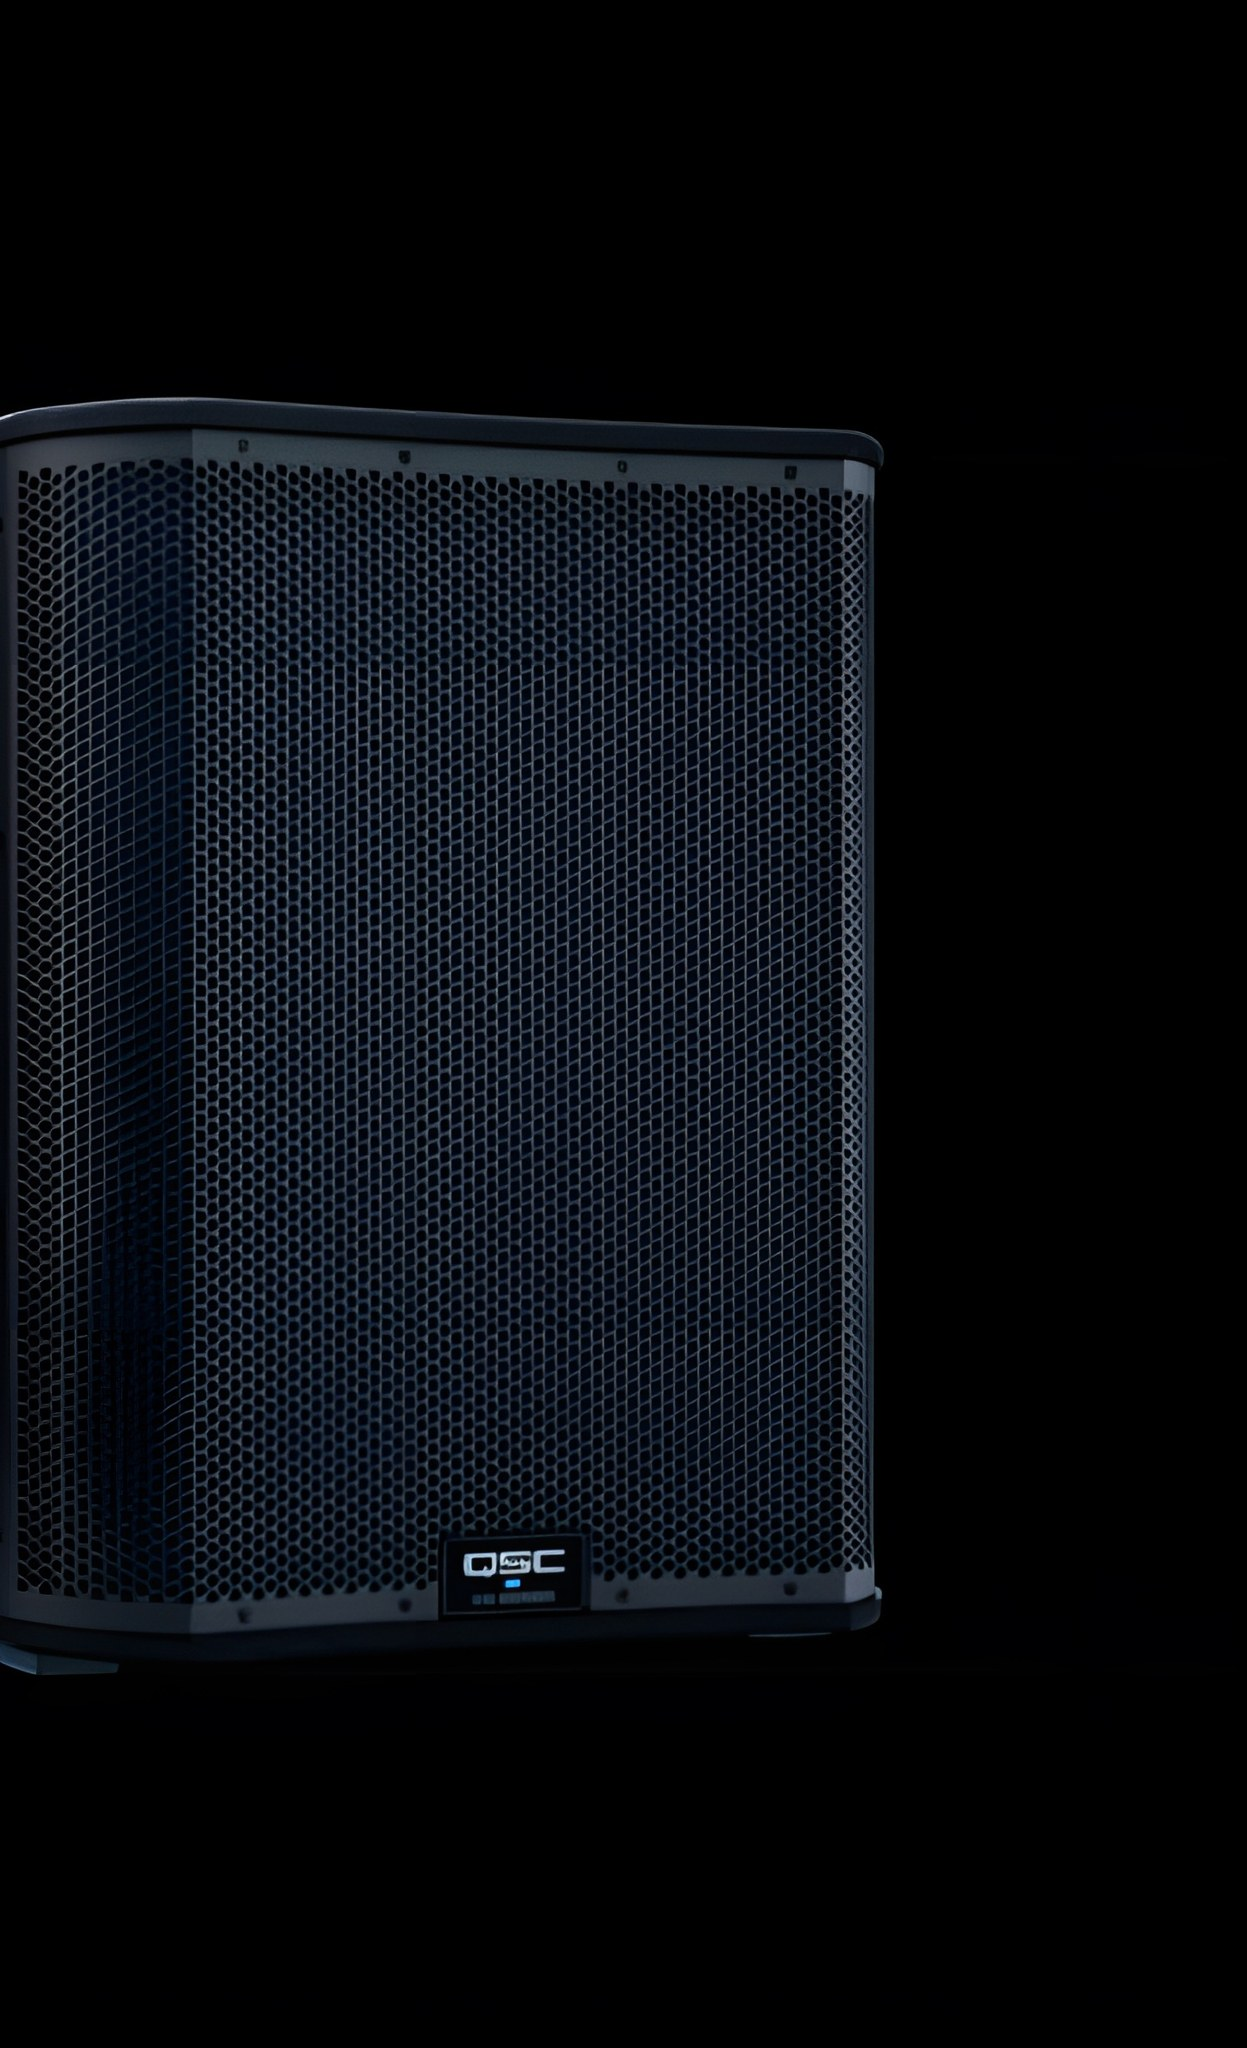
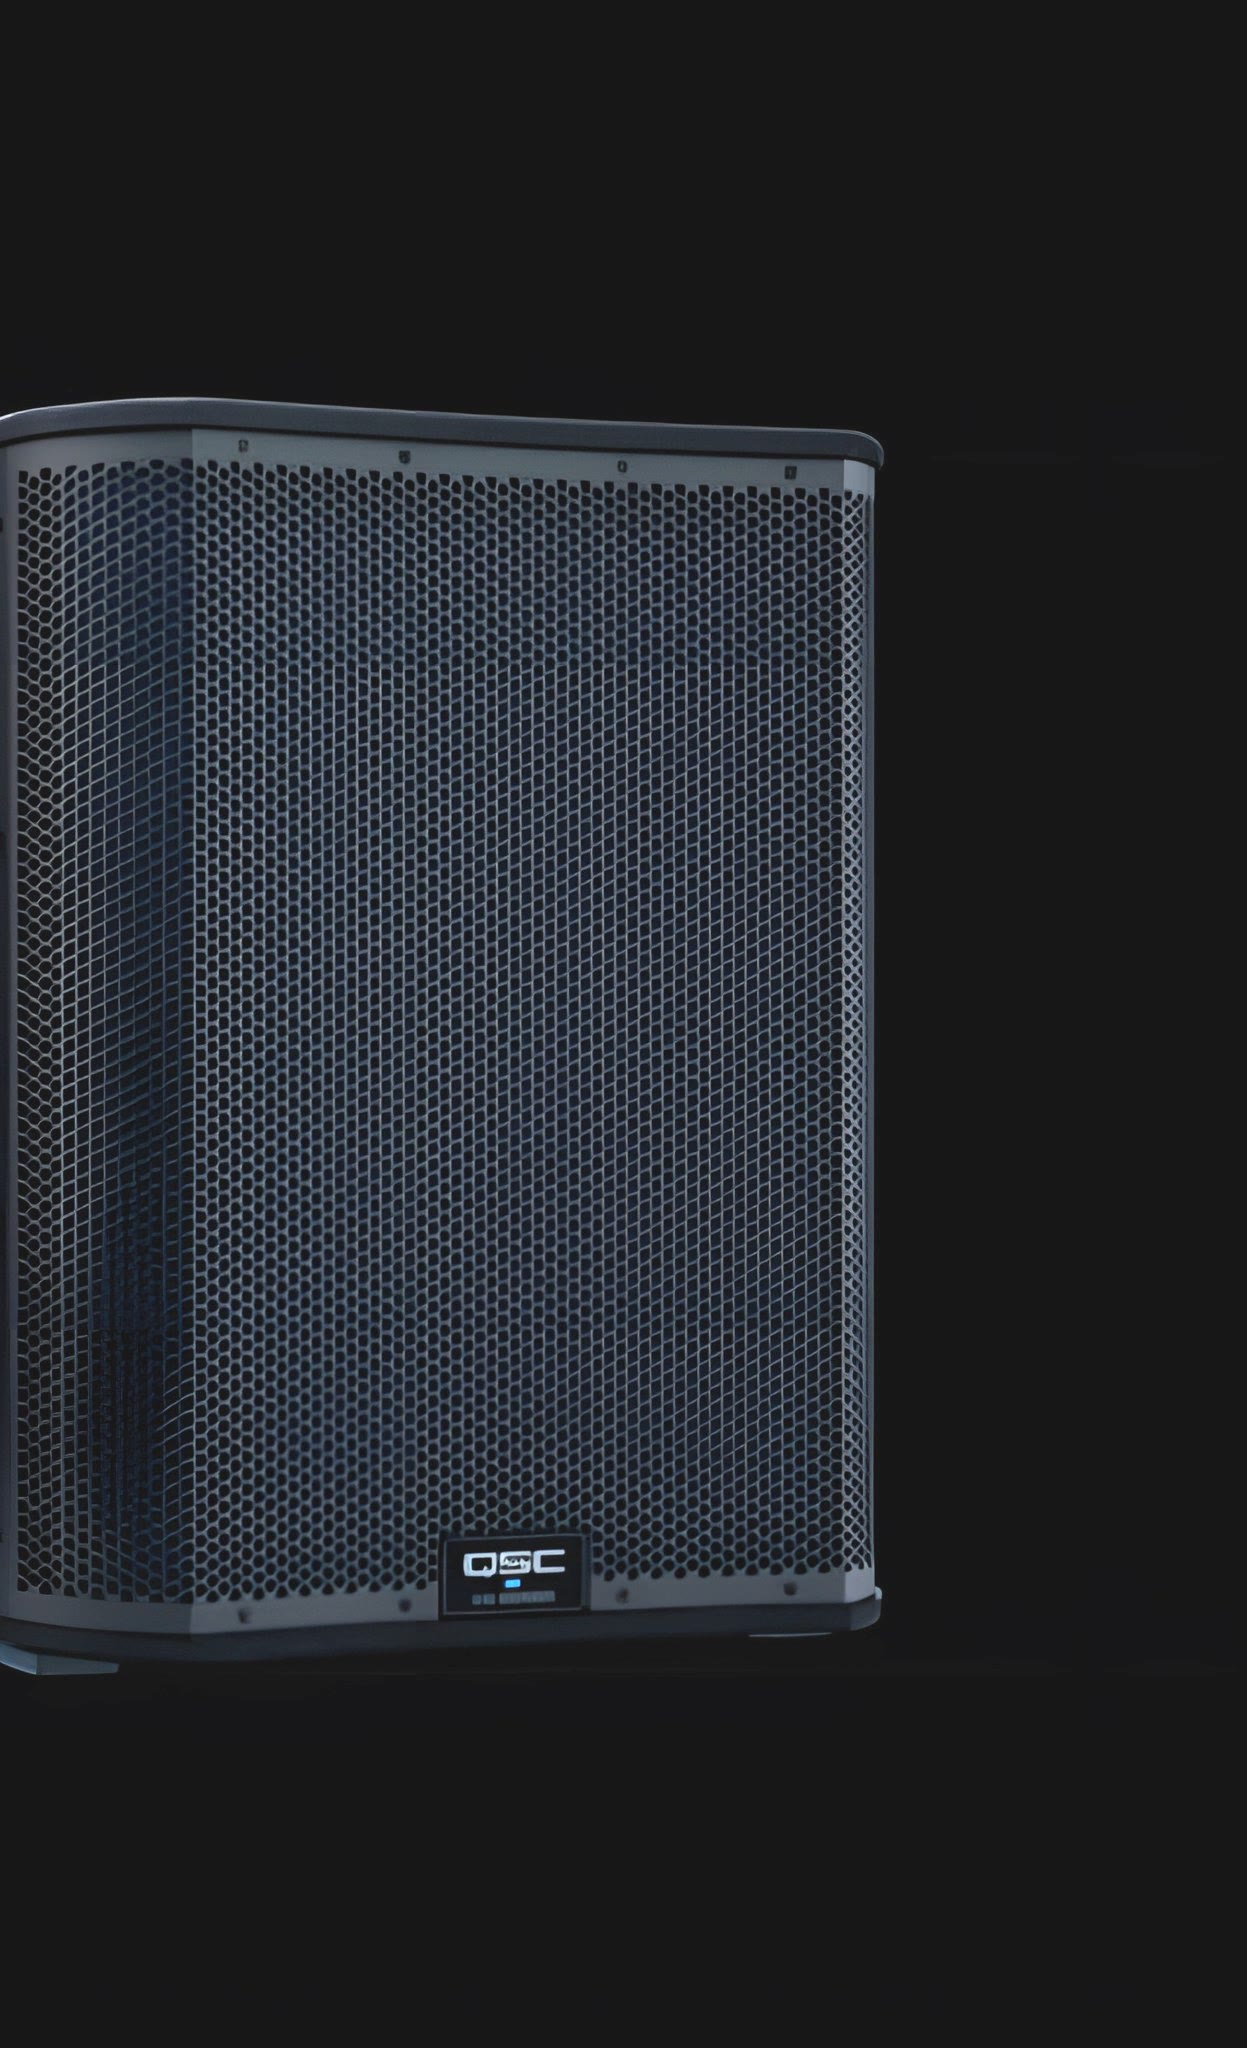
Gallery photos show full item (contain, not crop) everywhere; sub identified as QSC KS118 18in 3600W; sub crops brightened

diff --git a/styles.css b/styles.css
@@ -545,8 +545,8 @@ section{position:relative}
   transition:transform .3s var(--ease),border-color .3s}
 .gear:hover{transform:translateY(-4px);border-color:rgba(63,212,255,.5)}
 /* real photo on top of each card; honest Coming Soon tile until one exists */
-.g-media{position:relative;aspect-ratio:3/2;border-radius:12px;overflow:hidden;margin-bottom:16px;border:1px solid var(--line)}
-.g-media img{width:100%;height:100%;object-fit:cover;display:block}
+.g-media{position:relative;aspect-ratio:3/2;border-radius:12px;overflow:hidden;margin-bottom:16px;border:1px solid var(--line);background:#101016}
+.g-media img{width:100%;height:100%;object-fit:contain;display:block}
 .g-soon{display:flex;flex-direction:column;align-items:center;justify-content:center;gap:10px;color:var(--muted-2);
   background:repeating-linear-gradient(45deg,rgba(255,255,255,.025) 0 12px,transparent 12px 24px),
              linear-gradient(160deg,var(--surface-2),var(--surface))}
@@ -582,10 +582,10 @@ section{position:relative}
 .gm-close{position:sticky;top:12px;margin-left:calc(100% - 48px);z-index:5;width:36px;height:36px;border-radius:10px;
   border:1px solid var(--line);background:rgba(10,8,14,.85);color:var(--cream);cursor:pointer;font-size:.9rem}
 .gm-body{padding:0 26px 28px}
-.gm-photo{margin:-36px -26px 18px}
-.gm-photo img{width:100%;aspect-ratio:3/2;object-fit:cover;display:block;border-radius:20px 20px 0 0}
+.gm-photo{margin:-36px -26px 18px;background:#101016;border-radius:20px 20px 0 0}
+.gm-photo img{width:100%;aspect-ratio:3/2;object-fit:contain;display:block;border-radius:20px 20px 0 0}
 .gm-thumbs{display:flex;gap:8px;margin:-8px 0 16px;overflow-x:auto;padding-bottom:4px}
-.gm-thumbs img{width:64px;height:48px;object-fit:cover;border-radius:8px;cursor:pointer;border:2px solid transparent;opacity:.65;transition:.2s;flex:none}
+.gm-thumbs img{width:64px;height:48px;object-fit:contain;background:#101016;border-radius:8px;cursor:pointer;border:2px solid transparent;opacity:.65;transition:.2s;flex:none}
 .gm-thumbs img.on,.gm-thumbs img:hover{opacity:1;border-color:var(--gt-cyan)}
 .gm-from{margin:-4px 0 12px;font-size:.78rem;color:var(--muted);font-weight:600}
 .gm-head{display:flex;align-items:center;gap:12px;flex-wrap:wrap;margin-bottom:12px}

diff --git a/app.js b/app.js
@@ -510,13 +510,13 @@ const GEAR=[
    use:["Set it on a pole or tripod, or use the tilt-back angle as a floor monitor.","Run XLR from your mixer or DJ gear into the input.","Pick a DSP preset for the job: dance music, mic, monitor.","Set gain so the limit light only flicks on the loudest peaks. Pair with our KS subs for full-range dance floors."],
    specs:[["Amplifier","Class-D, up to 2,000W peak (K.2 line)"],["Design","Two-way: woofer + 1.4\" compression driver"],["DSP","Factory presets + savable scenes"],["Rigging","Pole mount + tilt-back angles"],["I/O","XLR combo in, XLR thru"]],
    rev:{stars:"4.5/5",count:"163 reviews",src:"Sweetwater (K12.2, flagship of the line)",line:"Reviewers report clear, powerful sound and years of reliability across bars, halls, and outdoor events."} },
- { id:"ksub", name:"QSC Subwoofer", model:"QSC KS-Series powered sub", qty:4, img:"media/gallery/gear/ksub-c2.jpg?v=2", imgs:["media/gallery/gear/ksub-c2.jpg?v=2","media/gallery/gear/ksub-c1.jpg?v=2","media/gallery/gear/ksub-c3.jpg?v=2"],
+ { id:"ksub", name:"QSC KS118 Subwoofer", model:"QSC KS118 · 18\" · 3,600W", qty:4, img:"media/gallery/gear/ksub-c2.jpg?v=2", imgs:["media/gallery/gear/ksub-c2.jpg?v=2","media/gallery/gear/ksub-c1.jpg?v=2","media/gallery/gear/ksub-c3.jpg?v=2"],
    tag:"Chest-punch low end on wheels.",
    from:"QSC · Costa Mesa, California. The matching sub line to the K Family, from a company building pro audio since 1968.",
-   desc:"QSC's matching powered subwoofers for the K-Series tops. Rolling birch cabinets with serious Class-D power that fill in everything the tops don't reach. Rent one for warmth or four for a real dance floor.",
-   works:"A Class-D module (up to 3,600W peak in the KS118) drives a long-excursion woofer, with onboard DSP handling the crossover and a DEEP mode for extended lows.",
+   desc:"The QSC KS118: an 18-inch powered subwoofer with 3,600 watts of peak Class-D power in a rolling birch cabinet. It fills in everything the tops don't reach. Rent one for warmth or four for a real dance floor.",
+   works:"A 3,600W peak Class-D module drives the long-excursion 18-inch woofer, with onboard DSP handling the crossover and a DEEP mode for extended lows.",
    use:["Roll it into place on its casters and connect power.","Run your mixer into the sub, then the sub's high-passed outputs up to the tops.","Thread a pole into the M20 socket to fly a K-Series top directly above.","Engage DEEP mode for extended lows when you have the headroom."],
-   specs:[["Amplifier","Class-D, up to 3,600W peak (KS118)"],["Low end","Down to 35 Hz · 136 dB max SPL (KS118)"],["Build","Birch cabinet, steel grille, casters"],["Rigging","M20 pole socket for a top"],["DSP","Crossover presets + savable scenes"]],
+   specs:[["Driver","18-inch long-excursion woofer"],["Amplifier","Class-D, 3,600W peak"],["Low end","Down to 35 Hz · 136 dB max SPL"],["Build","Birch cabinet, steel grille, casters"],["Rigging","M20 pole socket for a top"],["DSP","Crossover presets + savable scenes"]],
    rev:{stars:"5/5",count:"48 reviews",src:"Sweetwater (KS118)",line:"Reviewers describe tight, controlled, high-headroom bass that transformed their rigs."} },
  { id:"cdj", name:"Pioneer CDJ-3000", model:"Pioneer DJ CDJ-3000", qty:1, img:"media/gallery/gear/cdj-o2.jpg?v=2", imgs:["media/gallery/gear/cdj-o2.jpg?v=2","media/gallery/gear/cdj-o1.jpg?v=2","media/gallery/gear/cdj-o3.jpg?v=2","media/gallery/gear/cdj-o4.jpg?v=2"],
    tag:"The club-standard deck. Every festival booth has it.",

diff --git a/bars.html b/bars.html
@@ -16,7 +16,7 @@
 <link rel="preconnect" href="https://fonts.googleapis.com" />
 <link rel="preconnect" href="https://fonts.gstatic.com" crossorigin />
 <link href="https://fonts.googleapis.com/css2?family=Anton&family=Inter:wght@400;500;600;700;800&display=swap" rel="stylesheet" />
-<link rel="stylesheet" href="styles.css?v=9" />
+<link rel="stylesheet" href="styles.css?v=10" />
 </head>
 <body class="theme-bars">
 <div class="grain" aria-hidden="true"></div>

diff --git a/index.html b/index.html
@@ -28,7 +28,7 @@
 <link rel="preconnect" href="https://fonts.gstatic.com" crossorigin />
 <link href="https://fonts.googleapis.com/css2?family=Anton&family=Inter:wght@400;500;600;700;800&display=swap" rel="stylesheet" />
 <link rel="stylesheet" href="https://unpkg.com/leaflet@1.9.4/dist/leaflet.css" />
-<link rel="stylesheet" href="styles.css?v=9" />
+<link rel="stylesheet" href="styles.css?v=10" />
 <script type="application/ld+json">
 {"@context":"https://schema.org","@type":"Organization","name":"DartyForLife",
  "alternateName":"Darty For Life · Desert Drinkers","url":"https://dartyforlife.com",

diff --git a/majors.html b/majors.html
@@ -16,7 +16,7 @@
 <link rel="preconnect" href="https://fonts.googleapis.com" />
 <link rel="preconnect" href="https://fonts.gstatic.com" crossorigin />
 <link href="https://fonts.googleapis.com/css2?family=Anton&family=Inter:wght@400;500;600;700;800&display=swap" rel="stylesheet" />
-<link rel="stylesheet" href="styles.css?v=9" />
+<link rel="stylesheet" href="styles.css?v=10" />
 </head>
 <body>
 <div class="grain" aria-hidden="true"></div>

diff --git a/rentals.html b/rentals.html
@@ -16,7 +16,7 @@
 <link rel="preconnect" href="https://fonts.googleapis.com" />
 <link rel="preconnect" href="https://fonts.gstatic.com" crossorigin />
 <link href="https://fonts.googleapis.com/css2?family=Anton&family=Inter:wght@400;500;600;700;800&display=swap" rel="stylesheet" />
-<link rel="stylesheet" href="styles.css?v=9" />
+<link rel="stylesheet" href="styles.css?v=10" />
 </head>
 <body>
 <div class="grain" aria-hidden="true"></div>

diff --git a/tempe.html b/tempe.html
@@ -16,7 +16,7 @@
 <link rel="preconnect" href="https://fonts.googleapis.com" />
 <link rel="preconnect" href="https://fonts.gstatic.com" crossorigin />
 <link href="https://fonts.googleapis.com/css2?family=Anton&family=Inter:wght@400;500;600;700;800&display=swap" rel="stylesheet" />
-<link rel="stylesheet" href="styles.css?v=9" />
+<link rel="stylesheet" href="styles.css?v=10" />
 </head>
 <body class="theme-tempe">
 <div class="grain" aria-hidden="true"></div>